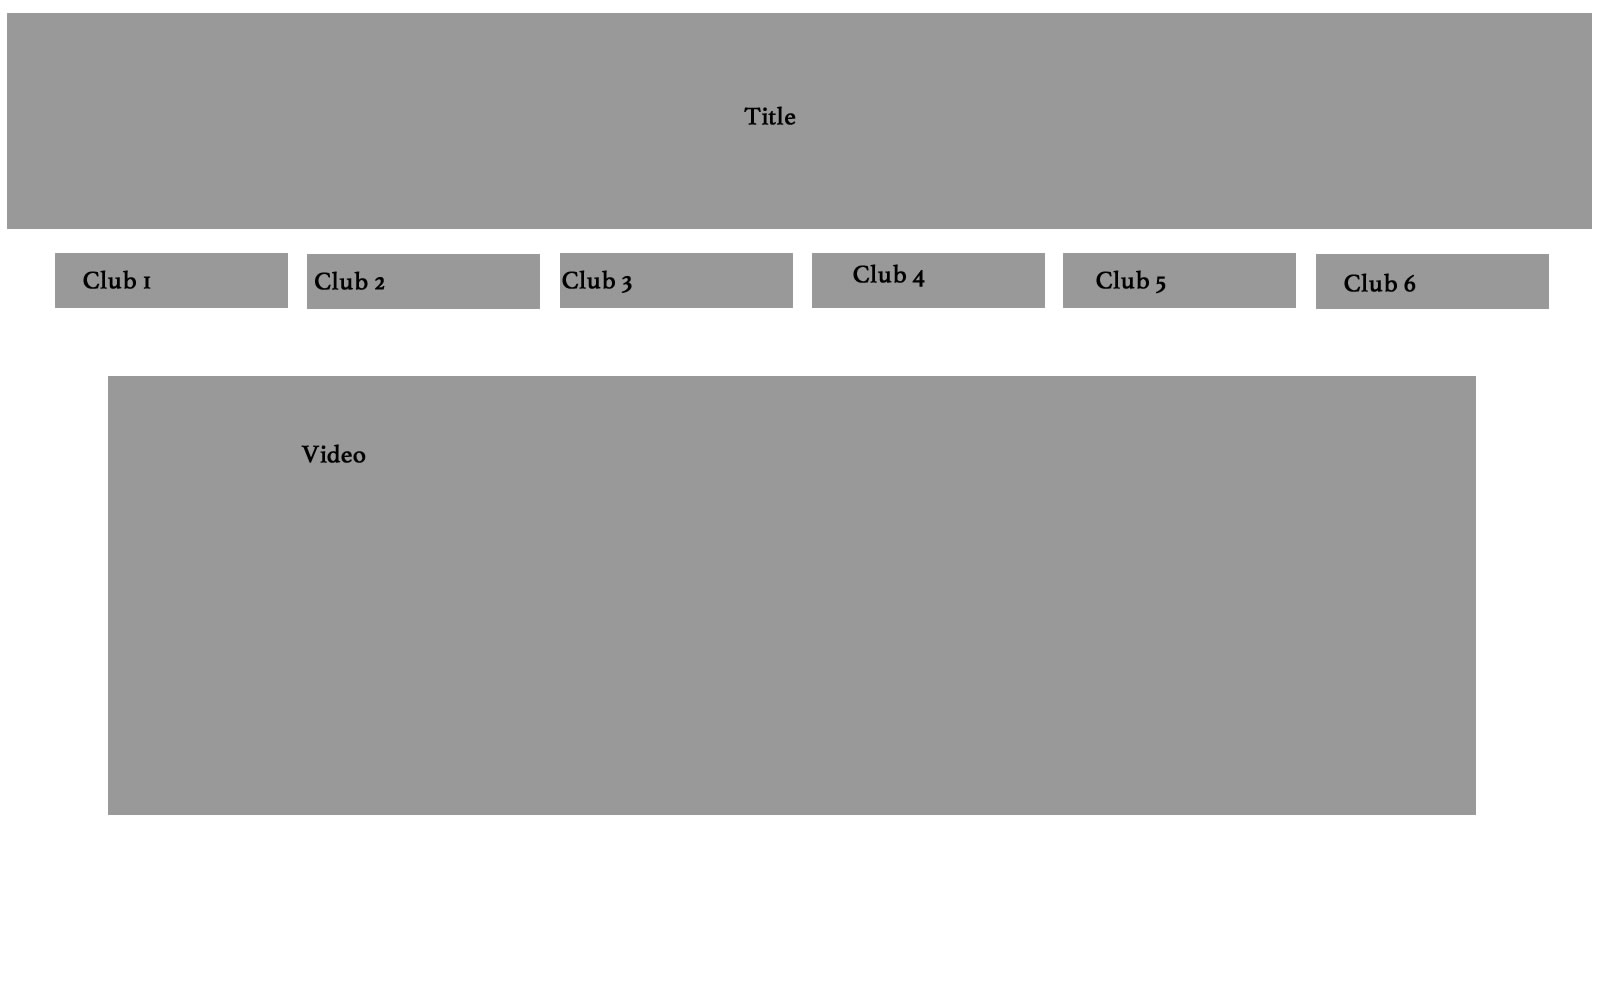
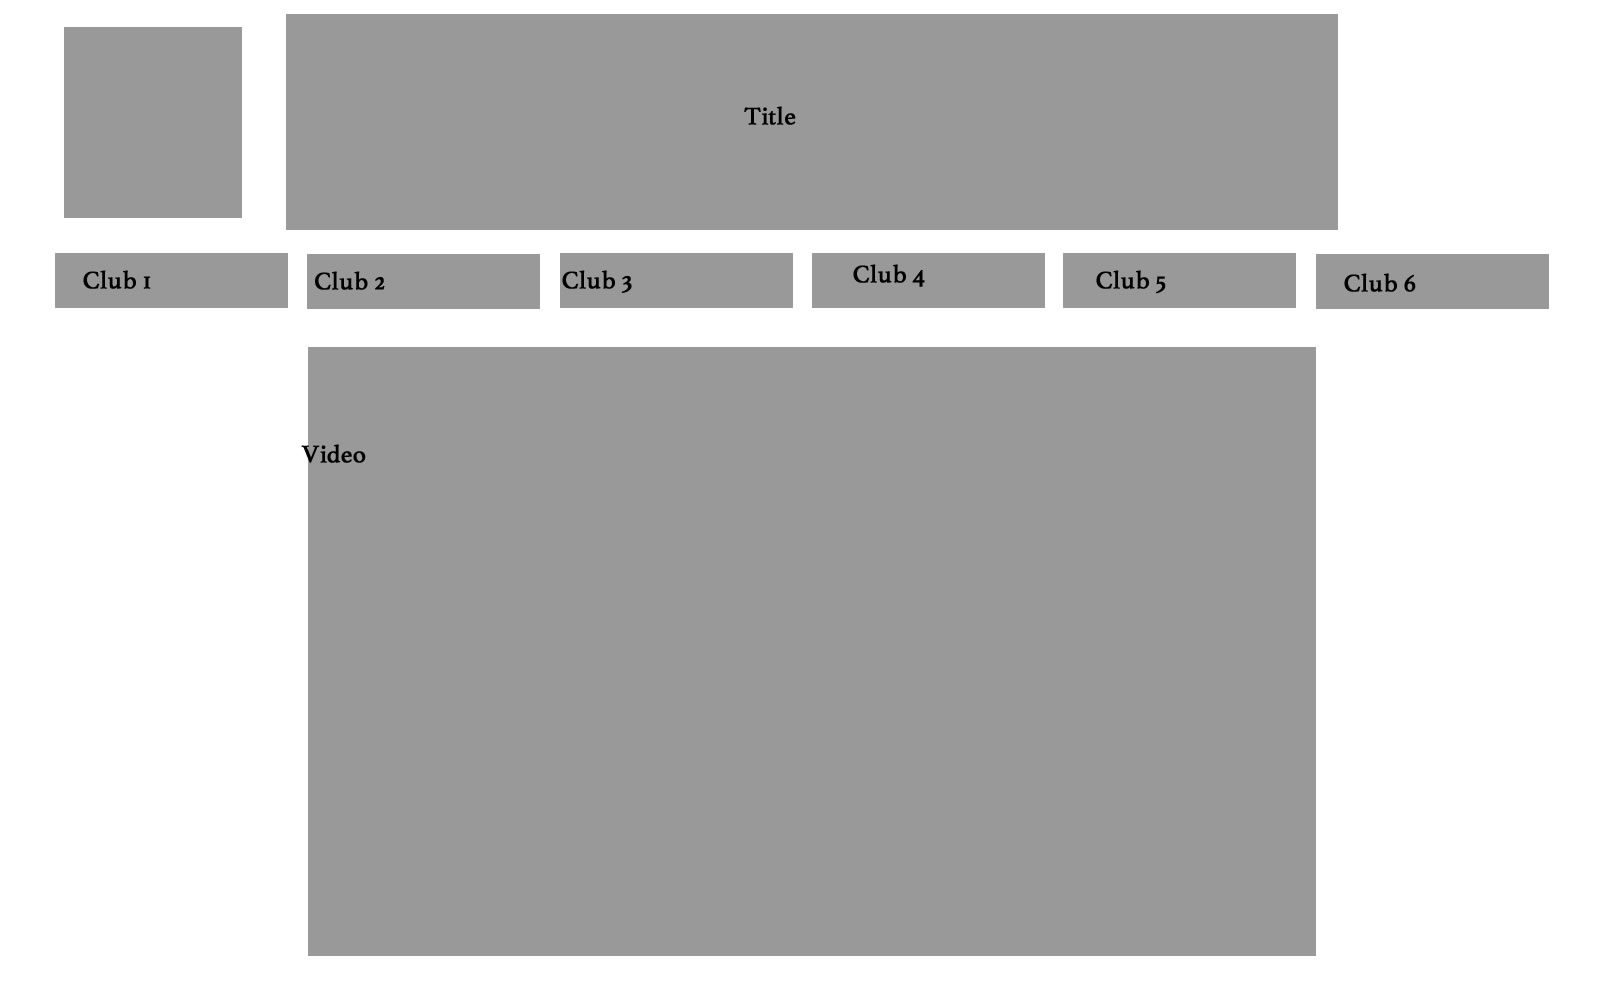
new dreamweaver

Changed region(s): [[0.0625, 0.341, 0.9375, 0.961], [0.8125, 0.0, 1.0, 0.248], [0.0, 0.0, 0.1875, 0.248]]

diff --git a/htdocs/index-DW.html b/htdocs/index-DW.html
@@ -6,19 +6,21 @@
 <style type="text/css">
 #apDiv1 {
 	position:absolute;
-	left:7px;
-	top:13px;
-	width:1585px;
+	left:286px;
+	top:14px;
+	width:1052px;
 	height:216px;
 	z-index:1;
+	background-color:#933;
 }
 #apDiv2 {
 	position:absolute;
-	left:55px;
-	top:253px;
+	left:56px;
+	top:254px;
 	width:233px;
 	height:55px;
 	z-index:2;
+	background-color:#06F;
 }
 #apDiv3 {
 	position:absolute;
@@ -27,13 +29,102 @@
 	width:233px;
 	height:55px;
 	z-index:3;
+	background-color:#06F;
+}
+#apDiv4 {
+	position:absolute;
+	left:64px;
+	top:27px;
+	width:178px;
+	height:191px;
+	z-index:4;
+	background-color:#06F
+}
+#apDiv5 {
+	position:absolute;
+	left:560px;
+	top:254px;
+	width:233px;
+	height:55px;
+	z-index:5;
+}
+#apDiv6 {
+	position:absolute;
+	left:812px;
+	top:254px;
+	width:233px;
+	height:55px;
+	z-index:6;
+}
+#apDiv7 {
+	position:absolute;
+	left:1063px;
+	top:254px;
+	width:233px;
+	height:55px;
+	z-index:7;
+}
+#apDiv8 {
+	position:absolute;
+	left:1316px;
+	top:254px;
+	width:233px;
+	height:55px;
+	z-index:8;
+}
+#apDiv9 {
+	position:absolute;
+	left:308px;
+	top:347px;
+	width:1008px;
+	height:609px;
+	z-index:9;
+}
+body {
+	background-color: #FFF;
 }
 </style>
 </head>
 
 <body>
-<div id="apDiv1"></div>
-<div id="apDiv2"></div>
-<div id="apDiv3"></div>
+<div id="apDiv1">
+  <div align="center">
+    <h1>&nbsp;</h1>
+    <h1>AIS After School </h1>
+    <h1>Clubs</h1>
+  </div>
+</div>
+<div id="apDiv2"> 
+  <div align="center">
+    <h1>Leadership</h1>
+  </div>
+</div>
+<div id="apDiv3">
+  <div align="center">
+    <h1>Education</h1>
+  </div>
+</div>
+<div id="apDiv4"><img src="../American_International_School_Hong_Kong_(emblem).png" width="181" height="192" /></div>
+<div id="apDiv5">
+  <div align="center">
+    <h1>Sports</h1>
+  </div>
+</div>
+<div id="apDiv6">
+  <div align="center">
+    <h1>Global Concern</h1>
+  </div>
+</div>
+<div id="apDiv7">
+  <div align="center">
+    <h1>Technology</h1>
+  </div>
+</div>
+<div id="apDiv8">
+  <div align="center">
+    <h1>Others</h1>
+  </div>
+</div>
+<div id="apDiv9"><img src="../ais.jpg" width="1010" height="608" /></div>
 </body>
 </html>

diff --git a/style.css b/style.css
@@ -6,3 +6,7 @@ p{
   font-size:20px;
   color:green;
 }
+
+div{
+	background-color:BLue;
+}
